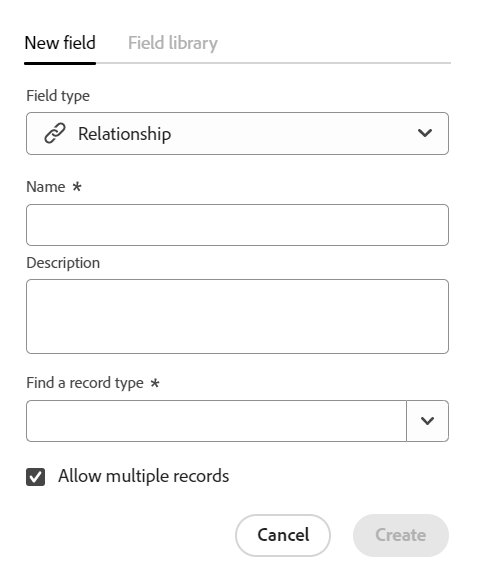
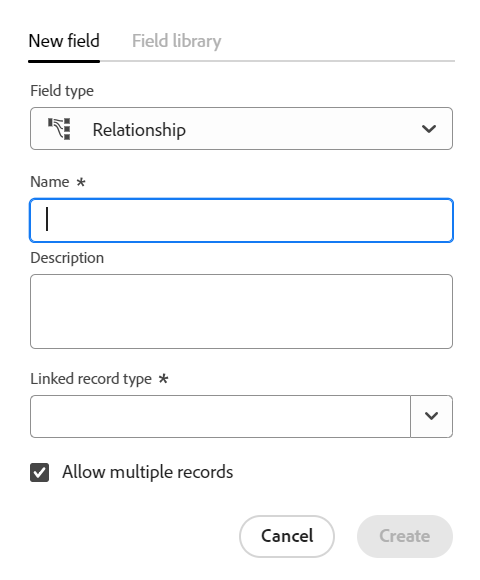
commit-aw-maestro-26-june

Changed region(s): [[0.0312, 0.0625, 0.9688, 0.5], [0.0312, 0.5938, 0.9375, 0.8438], [0.4688, 0.875, 0.9688, 0.9688]]

diff --git a/help/quicksilver/maestro/manage-relationship-fields.md b/help/quicksilver/maestro/manage-relationship-fields.md
@@ -13,7 +13,7 @@ hide: yes
 You can use a Relationship-type field to connect the following: 
 
 * Maestro record types and their fields. 
-* Maestro record types with objects from another applications and their fields. For more information, see [Connect Maestro records to Workfront objects](../maestro/connect-maestro-records-to-workfront-objects.md). <!--consider renaming this article to maybe something generic when we can link from other apps as well-->
+* Maestro record types with objects from another application and their fields. For more information, see [Connect Maestro records to Workfront objects](../maestro/connect-maestro-records-to-workfront-objects.md). <!--consider renaming this article to maybe something generic when we can link from other apps as well-->
 
 By doing this, you can display fields from the linked record or object on another Maestro record.
 
@@ -66,7 +66,7 @@ By doing this, you can display fields from the linked record or object on anothe
 * You can view fields other users create and fields created by you are visible to everyone who has access to Maestro. 
 * A relationship-type field is a connection from one record type to another. The relationship-type field displays the record type you connect to. For this reason, we will refer to the relationship-type field as the "linked record field."
 * You can add fields from the record types you connect. For this reason, we will refer to the fields that belong to the connected record types as "linked fields".
-* You can select the records you connect to in the linked record type field. 
+* After you create individual records for a record type, you can select the records you connect to in the linked record type field. 
 * You cannot select the values for the linked fields, as they automatically populate from the original record type they belong to.  
 * You can edit linked record fields. You cannot edit linked fields. 
 
@@ -86,7 +86,7 @@ You can create a Relationship-type field to connect two record types and their f
     >We recommend that you include the name of the record you are linking to in the name of the relationship-type field to capture what record type the new field is coming from. The name of the linked record is not visible in the new linked record field or its linked fields. 
 
      * **Description**: Additional information about the relationship-type field. The description of a field displays when you hover over the field's column in a table. 
-     * **Find a record type**: The record type that you want to link to. This is the linked record. <!-- logged a bug to rename this to Linked record type-->
+     * **Linked record type**: The record type that you want to link to. This is the linked record. You can select an operational record type or a taxonomy. 
      * **Allow multiple records**: This allows you to select multiple records when the linked record type field displays on the original records. This is selected by default.
 
 1. (Optional) Select the fields that belong to the linked record type that you want to display as linked fields on the original records. Use the **search** icon ![](assets/search-icon.png) to search for a field. 
@@ -109,13 +109,15 @@ You can create a Relationship-type field to connect two record types and their f
 
     >[!NOTE]
     >
-    >For example, you can link the Program record (linked record) from the Campaign record (original record). You also choose to link the Program Budget field from the Campaign record, and you select Program 1 with a Budget of $120,000 and Program 2 with a Budget of $100,000. You can view the following Budget information in the linked field from the original record, depending on which aggregator you choose: 
+    >For example, you can link the Product record (linked record) from the Campaign record (original record) and name it "Product field". You can also choose to link the Budget field of the Product record from the Campaign record and call it "Product Budget". If you allowed to select multiple records in the "Product field", you can select Product 1 with a Budget of $120,000 and Product 2 with a Budget of $100,000. You can view the following Budget information in the linked field from the original record, depending on which aggregator you choose: 
     >
-    >* **None**: $120, 000, $100,000
+    >* **None**: $120,000, $100,000
     >* **MAX**: $120,000
     >* **MIN**: $100,000
     >* **SUM**: $220,000
-    >* **AVG**: $110,000  <!--LEFT HERE on June 12-->
+    >* **AVG**: $110,000  
+    >
+    >For more information, see the [Example of creating and updating a Relationship-type field](#example-of-creating-and-updating-a-relationship-type-field) section in this article. 
 
 1. Click **Create**.
 
@@ -132,40 +134,46 @@ This section describes an example of how to create a field by linking record typ
 
 For example, you have a record type named Campaign as your original record type. 
 
-You also have another record type called Program, which has a currency field called Budget. 
+You also have another record type called Product, which has a currency field called Budget. 
 
-You want to create a field on the record type of Campaign where you can show the values that users select for the Budget field on the record type Product. 
+You want to create a field on the record type of Campaign where you can show the values of the Budget field on the record type Product. 
 
 To do this:
 
-1. Start by opening the table view for the Campaign record type. 
+1. Open the table view for the Campaign record type. 
 1. Click the **+** icon in the upper-right corner of the table view to add a new field, then expand the **Field type** drop-down menu and select **Relationship**. 
 1. Add the following information, for example:
 
-    * **Name**: Program Budget. This is the name of the linked record field. 
-    * **Description**: This is the budget of the program associated with this campaign. 
-    * * **Allow multiple records**: Leave this option selected. This allows users to select multiple records when the linked record type field displays on the original records.
-1. From the list of fields associated with the **Program**, select the **Budget** field. This creates a field called **Budget (from Program Budget)**, which is the name of the linked field. 
-1. (Optional and conditional) Select **SUM** in the drop-down menu to the right of the field name. When users select multiple programs in the **Program Budget** linked record field, the **Budget (from Program Budget)** field adds all their Budget values together and displays the total. <!-- check the shot below - added a bug with a couple of UI changes here-->
+    * **Name**: Product information. This is the name of the linked record field. 
+    * **Description**: This is the Product that I want my Campaigns associated with. 
+    *** Linked record type**: Product
+    * * **Allow multiple records**: If you leave this option selected, this allows users to select multiple records when the linked record type field (Product information) displays on the original records (Campaigns).
+1. From the list of fields associated with the **Product** record type, select the **Budget** field. This creates a field called **Budget (from Product information)**, which is the name of the linked field. 
 
-    ![](assets/example-of-relationship-field-program-budget-with-sum.png)
+    >[!TIP]
+    >
+    >    If you want to view the Budget of all selected products as one total number, select **SUM** in the drop-down menu to the right of the field name. When users select multiple products in the **Product information** linked record field, the **Budget (from Product information)** field adds all their Budget values together and displays the total. <!-- check the shot below - added a bug with a couple of UI changes here-->
+    > If you select **None**, instead of **SUM**, the individual budgets will display separated by commas.
+
+    ![](assets/example-of-relationship-field-product-information-budget-with-sum.png)
 
     This generates two fields in the Campaign record table view and two fields in the Details page of a campaign: 
 
-    * Program Budget (the linked record field)
-    * Budget (from Program Budget) (the linked field) 
-1. To populate the **Program Budget** field, go to the **Campaign** record type table view. 
-1. Create a campaign by adding a new row in the table, then expand the **Program Budget** field. Select a program or multiple programs from the list. 
+    * **Product information** (the linked record field): This will display the name or names of the Products. 
+    * **Budget (from Product information)** (the linked field): This will display the Budgets of the Products selected in the Product information field. 
+1. To populate the **Product information** field, from the **Campaign** record type table view, create a campaign by adding a new row in the table. 
+1. Click the **+** icon inside the  **Product information** column of the new campaign. The **Connect objects** box displays. The name of the record type that you are linking to (Product) displays in the upper-left corner of the box.
 
-    ![](assets/program-budget-example-multiple-values-selected.png)
+    ![](assets/connect-objects-box-to-select-other-maestro-records-example-for-product-record.png)
 
-1. Click outside the **Program Budget** field to save the values.
-    The values for the **Budget** field on the programs selected displays as a total in the **Budget (from Program Budget)** field on the campaign. The same fields display on the Details page of a campaign.
+1. Select the Product records you want to connect with the Campaign records, then click **Connect objects**.
 
-    ![](assets/example-of-linked-fields-on-details-page-of-campaign.png)
+    The following columns are populated in the Campaign record type table: 
+    * The Product information field populates for the Campaign record with the selected Products. 
+    * The Budget (from Product information) field populates with the Budget value for each selected Product. 
+
+    ![](assets/example-product-information-and-budget-relationship-fields-for-campaign-record-table.png)
 
     >[!TIP]
     >
     >When you do not select an aggregator for the multiple values, all values display separated by commas. 
-    >
-    >![](assets/example-multiple-values-separated-by-commas-no-aggregator.png)
